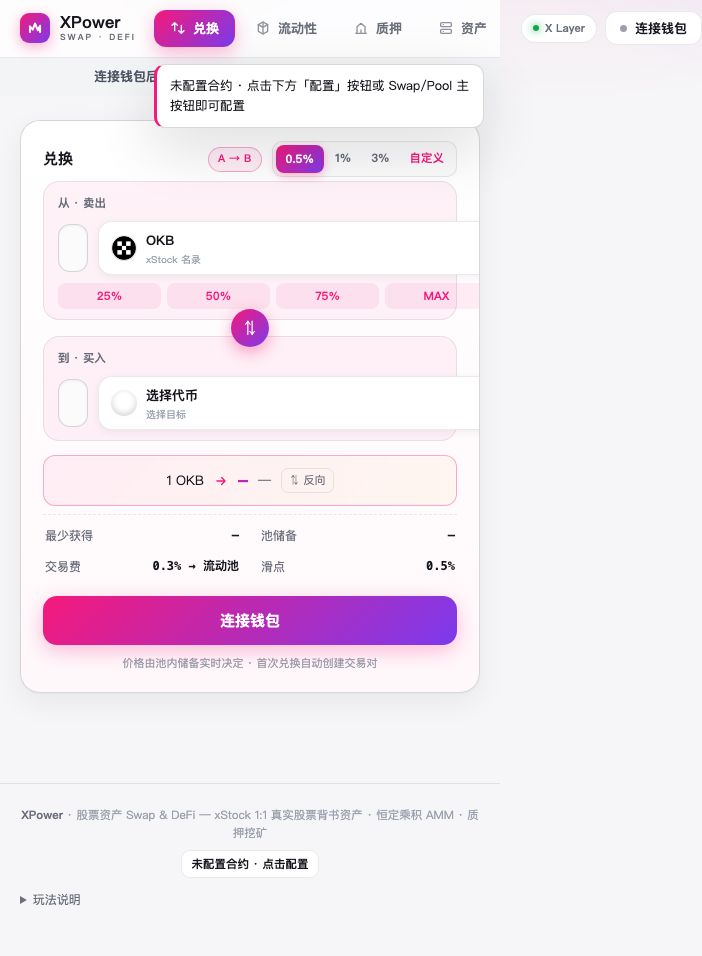
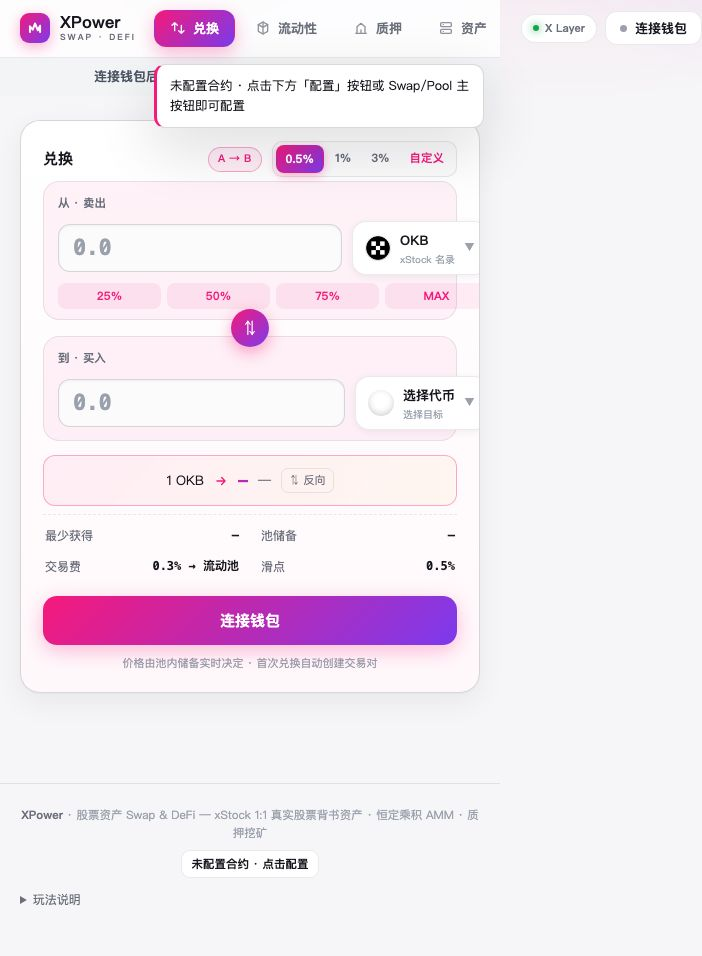
修复输入数量框被挤成31px：tokbtn全局width:100%撑满flex容器，加width:auto/flex-basis:auto覆盖

diff --git a/XPower Swap DApp.html b/XPower Swap DApp.html
@@ -288,7 +288,7 @@ input[type=text]:focus,input[type=number]:focus,select:focus,textarea:focus{outl
 .amt-body input{flex:1 1 auto;min-width:0;width:auto;max-width:none;background:var(--card2);border:1.5px solid var(--line2)!important;border-radius:12px;font-size:22px!important;font-weight:900;font-family:var(--mono);outline:none;color:var(--fg);letter-spacing:-.5px;padding:10px 14px;height:48px;box-sizing:border-box;transition:border-color .15s,box-shadow .15s;box-shadow:inset 0 1px 3px rgba(20,20,43,.05)}
 .amt-body input:focus{border-color:var(--acc-line)!important;box-shadow:0 0 0 3px rgba(245,25,123,.1)}
 .amt-body input::placeholder{color:var(--faint)}
-.amt-body .tokbtn{flex-shrink:0;border:1px solid var(--line);background:var(--card);border-radius:14px;padding:7px 12px;box-shadow:0 2px 8px rgba(20,20,43,.06);min-width:118px}
+.amt-body .tokbtn{flex-shrink:0;width:auto;max-width:none;flex-basis:auto;border:1px solid var(--line);background:var(--card);border-radius:14px;padding:7px 12px;box-shadow:0 2px 8px rgba(20,20,43,.06);min-width:118px}
 .amt-body .tokbtn:hover{border-color:var(--acc-line)}
 .amt-body .tokbtn .lg{width:26px;height:26px;font-size:11px}
 .amt-body .tokbtn .nm2{font-size:13px;font-weight:800}
